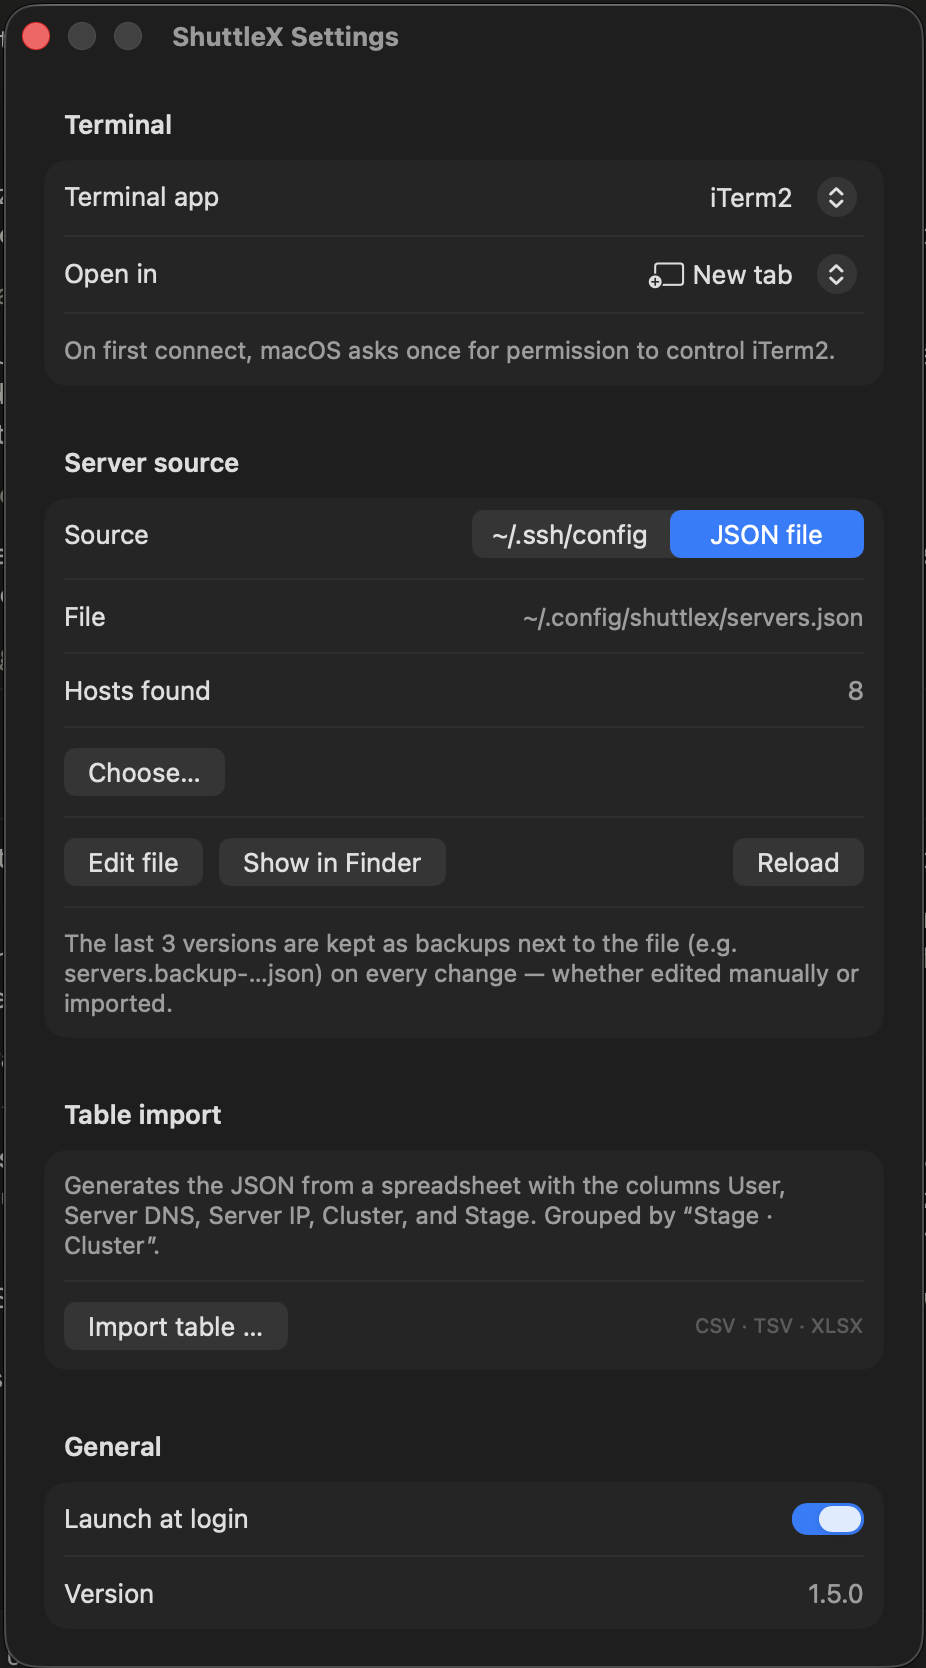
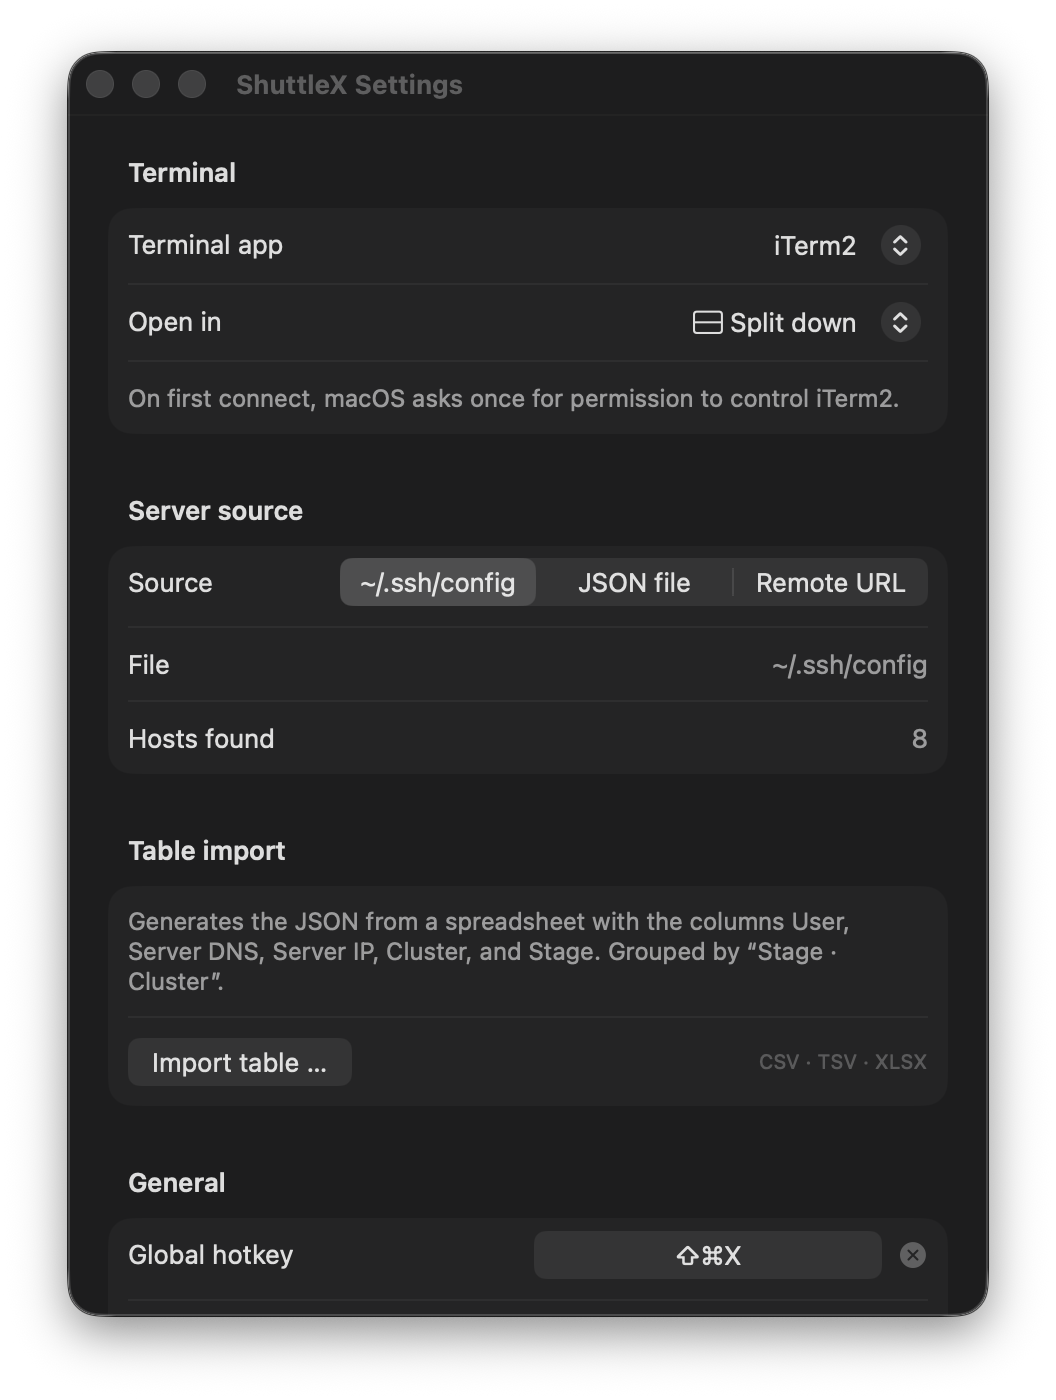
docs: refresh Settings screenshots (1.14.1)
Replace the stale 1.5.0-era settings shot with current captures: the top
(terminal, server source incl. remote URL, table import) and the General
section (global hotkey, tags, launch at login, update check).

diff --git a/README.md b/README.md
@@ -5,9 +5,11 @@
 A modern SSH launcher for the macOS menu bar — inspired by the original [SSHMenu](https://sshmenu.sourceforge.net) and by [Shuttle](https://github.com/fitztrev/shuttle), rebuilt with SwiftUI (`@Observable`) on a custom `NSPanel`. Pure **arm64** binary for Apple Silicon, not a universal app.
 
 <p align="center">
-  <img src="docs/screenshots/menu.png" alt="ShuttleX menu bar dropdown with searchable, collapsible server groups" width="340" valign="top">
+  <img src="docs/screenshots/menu.png" alt="ShuttleX menu bar dropdown with searchable, collapsible server groups" width="300" valign="top">
   &nbsp;
-  <img src="docs/screenshots/settings.png" alt="ShuttleX settings: terminal, server source, table import" width="300" valign="top">
+  <img src="docs/screenshots/settings.png" alt="ShuttleX settings — terminal, server source (ssh config / JSON / remote URL), table import" width="270" valign="top">
+  &nbsp;
+  <img src="docs/screenshots/settings-general.png" alt="ShuttleX settings — global hotkey, server tags, launch at login, update check" width="270" valign="top">
 </p>
 
 📖 Full documentation is in the [**Wiki**](https://github.com/DasDuo/ShuttleX/wiki) · version history in the [**Changelog**](CHANGELOG.md).